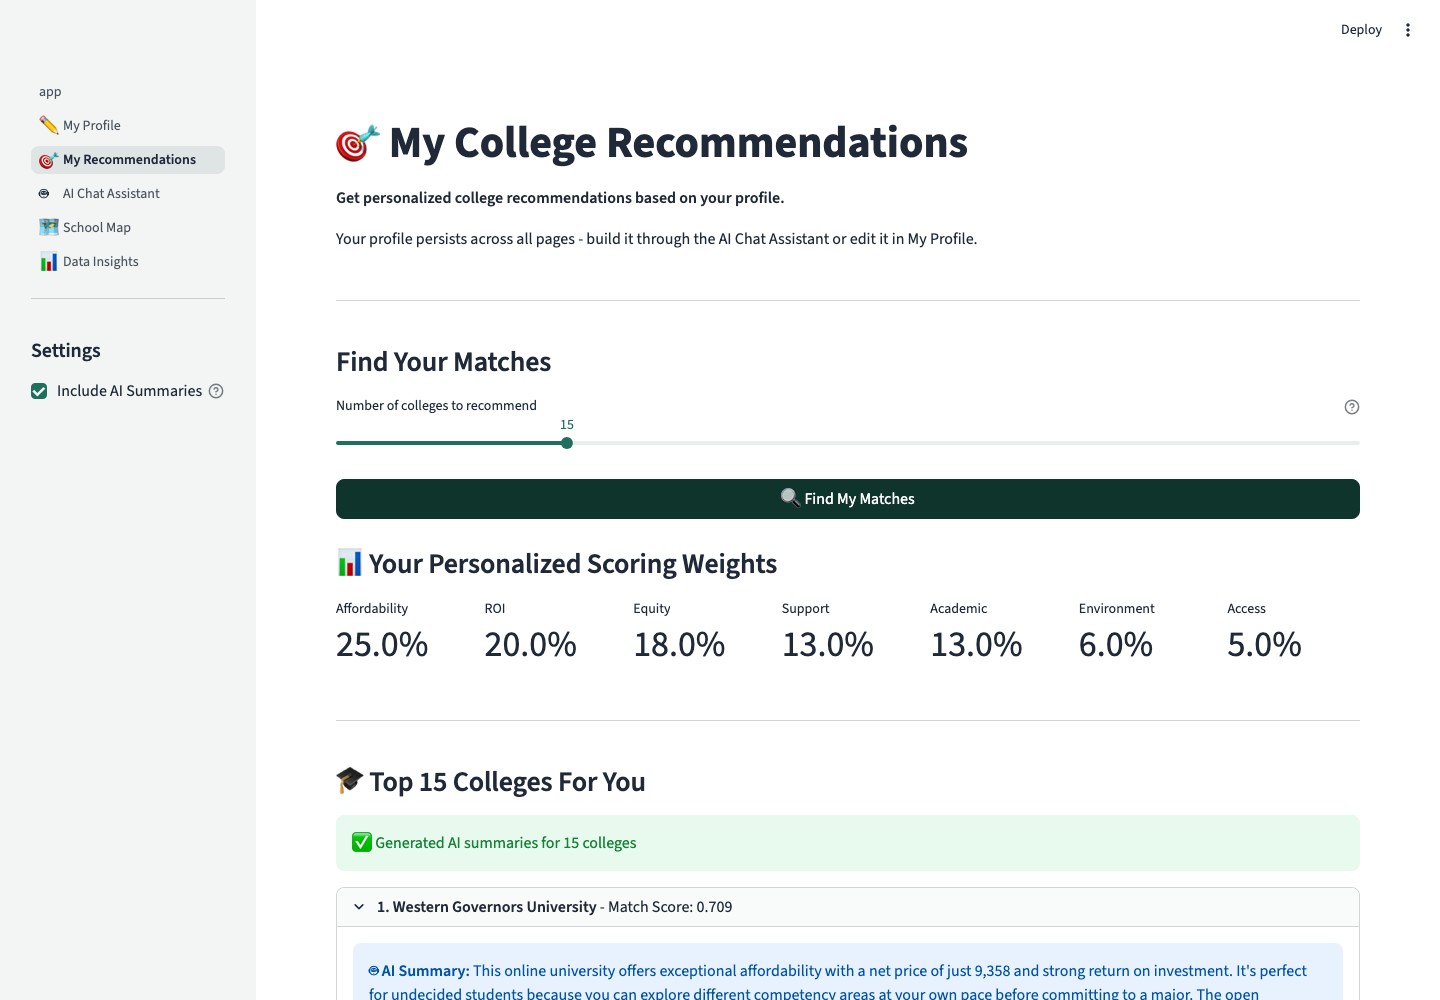
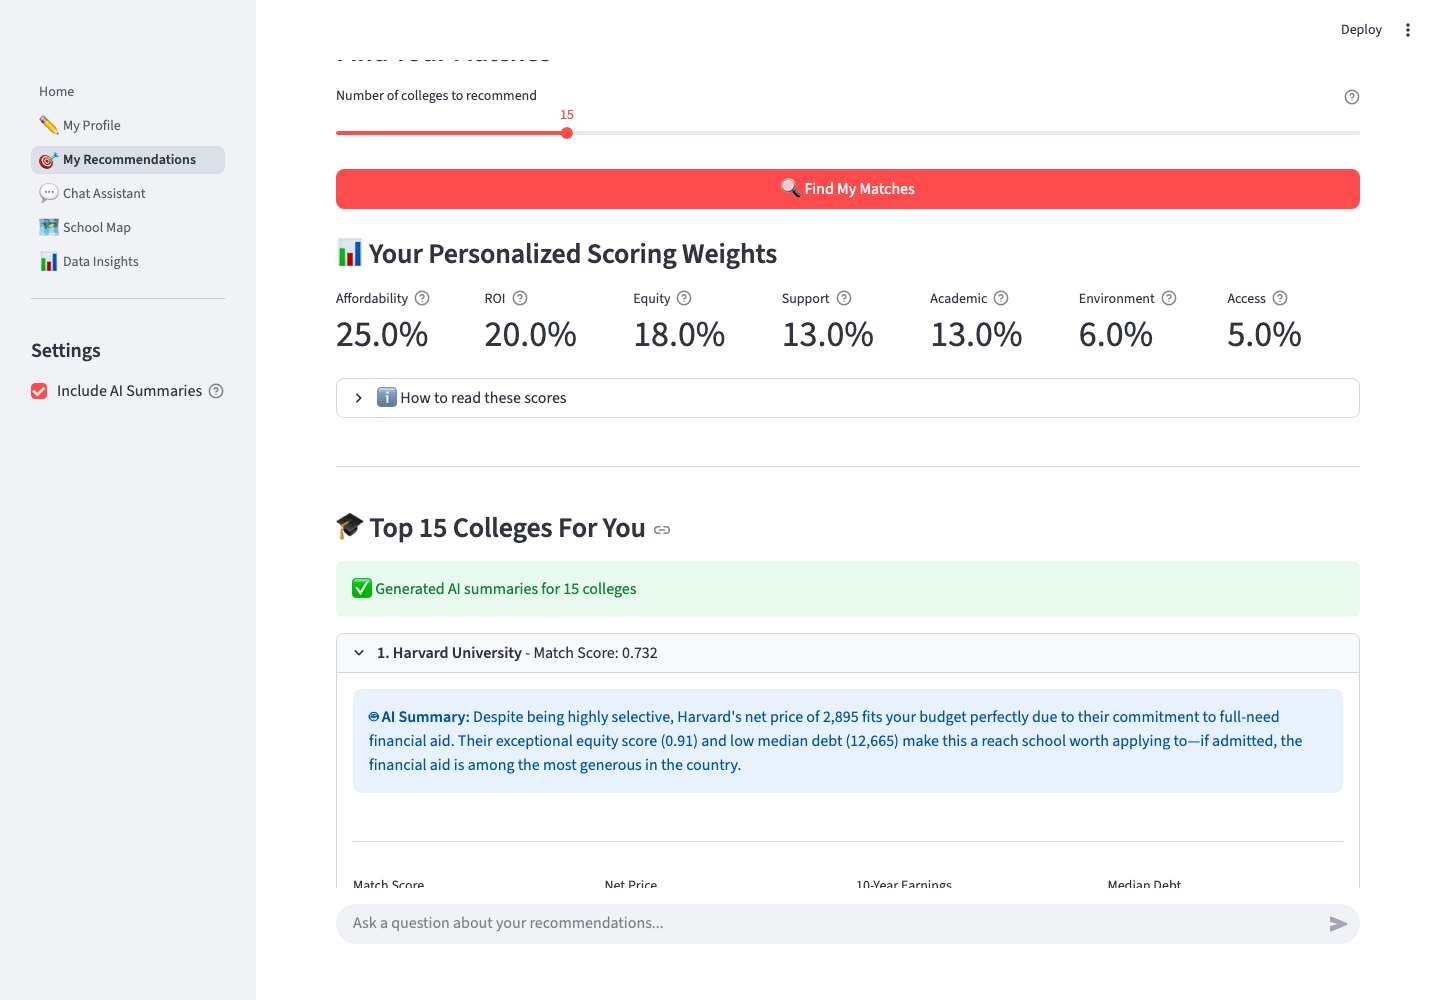
Rename entrypoint to Home.py; refresh README screenshots
The sidebar nav labels the entrypoint with its filename, so 'app' becomes
'Home'. Screenshots recaptured with the current sidebar, score tooltips,
and post-equity-fix rankings.

diff --git a/README.md b/README.md
@@ -62,7 +62,7 @@ Two design rules kept us honest:
 git clone https://github.com/AndreJustinLee/7thDatathon.git
 cd 7thDatathon
 pip install -r requirements.txt
-streamlit run app.py
+streamlit run Home.py
 ```
 
 That's it — the datasets ship with the repo, and the first run builds a Parquet cache (~30 seconds; instant after that).
@@ -77,7 +77,7 @@ Run the tests with `pip install pytest && python -m pytest tests/`.
 
 ### Deploy your own
 
-The app runs as-is on [Streamlit Community Cloud](https://share.streamlit.io) (free): point it at this repo with `app.py` as the entrypoint, and add `ANTHROPIC_API_KEY` under app secrets if you want the AI features.
+The app runs as-is on [Streamlit Community Cloud](https://share.streamlit.io) (free): point it at this repo with `Home.py` as the entrypoint, and add `ANTHROPIC_API_KEY` under app secrets if you want the AI features.
 
 ## Data
 
@@ -92,7 +92,7 @@ The two tabular datasets are joined on UNITID (the federal institution ID) and f
 ## Architecture
 
 ```
-app.py                     Streamlit entrypoint (landing page)
+Home.py                    Streamlit entrypoint (landing page)
 pages/                     The five app pages
 src/
 ├── data_loading.py        Load + merge the datasets (Parquet-cached)